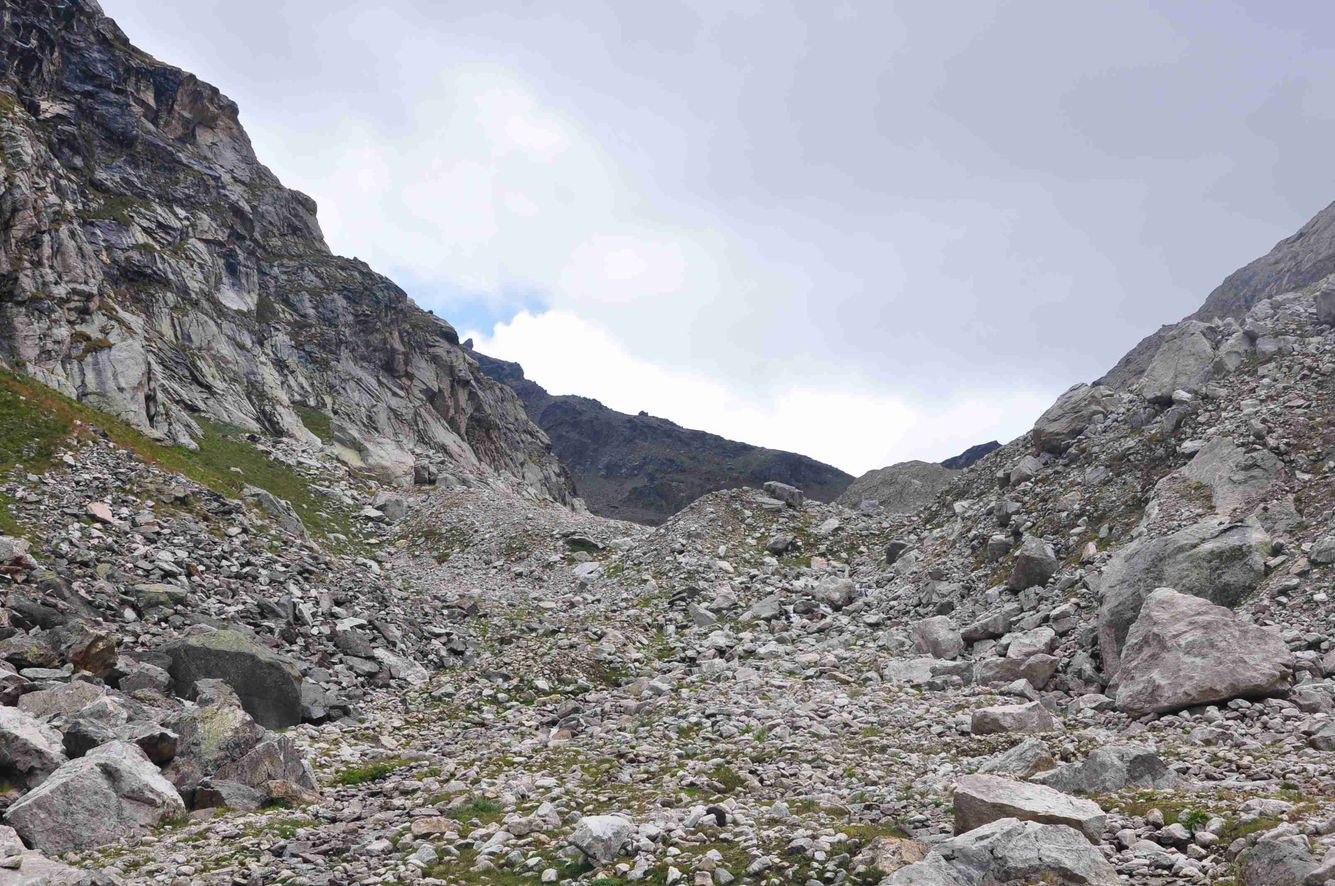
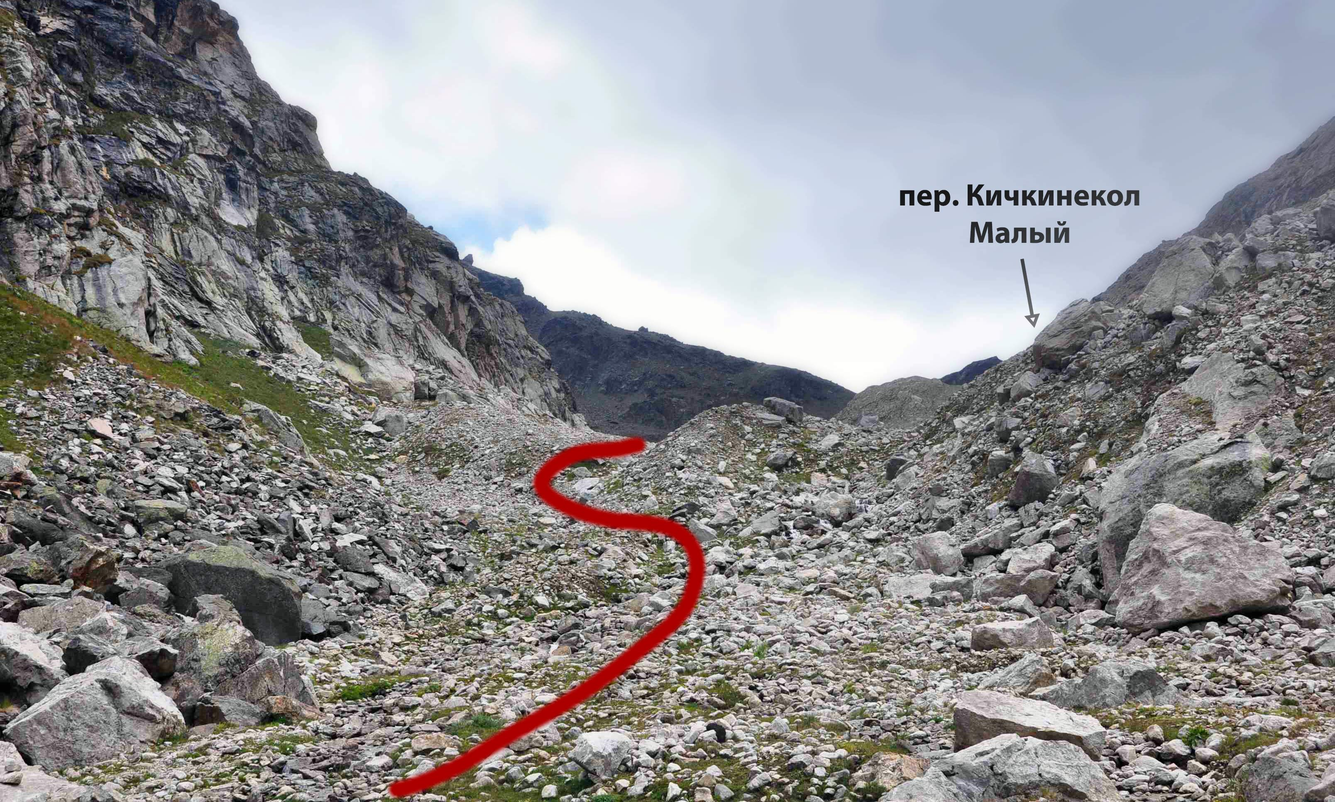
26 aug finish

diff --git a/latex-report/aug26.tex b/latex-report/aug26.tex
@@ -1,15 +1,24 @@
 \subsection{26 августа. Пер. Кичкинекол Малый (1А)}
 \textit{Метеоусловия: утром переменная облачность, днём, вечером сильный лождь, ветер.}
 
-
 \begin{figure}[h!]
 	\centering
 	\includegraphics[angle=0, width=0.7\linewidth]{../pics/mini_maps/26}
 	\label{fig:mini_26}
 \end{figure}
 
-Подъём в 08:00. Гроза закончилась, небо затянуто облаками, периодически выходит солнце. Выходим в 11:00, движемся по тропе, траверсирующей травянистый склон.
+Подъём в 08:00. Гроза закончилась, небо затянуто облаками, периодически выходит солнце. Выходим в 11:00, движемся по тропе, траверсирующей травянистый склон.  Тропа обходит водопад на западной оконечности поляны слева пхд. Встречаются туры, тропу видно хорошо. 
+Постепенно травянистый склон переходит в морену.
 
+\begin{figure}[h!]
+	\centering
+	\includegraphics[width=0.7\linewidth]{../pics/DSC_0221.JPG}
+	\caption{Путь подъёма на перевал}
+	\label{fig:DSC_0221}
+\end{figure}
+ 
+ За поворотом нам открывается вид на наш перевал и цирк соседнего перевала Обманный (рис.~\ref{fig:DSC_0226},\ref{fig:DSC_0227}).
+ 
 \begin{figure}[h!]
 	\centering
 	\includegraphics[width=0.7\linewidth]{../pics/DSC_0226}
@@ -17,14 +26,8 @@
 	\label{fig:DSC_0226}
 \end{figure}
 
- Тропа обходит водопад на западной оконечности поляны слева пхд. Встречаются туры, тропу видно хорошо. Постепенно травянистый склон переходит в морену, погода ухудшается, начинается небольшой дождь.
+Погода ухудшается, начинается небольшой дождь.
 
-\begin{figure}[h!]
-	\centering
-	\includegraphics[width=0.7\linewidth]{../pics/DSC_0221.JPG}
-	\caption{Путь подъема на перевал}
-	\label{fig:DSC_0221}
-\end{figure}
 
 \begin{figure}[h!]
 	\centering
@@ -33,22 +36,27 @@
 	\label{fig:DSC_0227}
 \end{figure}
 
-\begin{figure}[h!]
-	\centering
-	\includegraphics[width=0.7\linewidth]{../pics/DSC_0230.JPG}
-	\label{fig:DSC_0230}
-\end{figure}
+
+Подъём на перевал проходит по средней и мелкой осыпи, идём косыми траверсами с самостраховкой треккинговыми палками. Технической сложности не представляет.
+В 13:15 заходим на перевал Кичкинекол Малый (рис.~\ref{fig:DSC_0239}). Погода совсем испортилась, идёт ливень с градом. Снимаем перевальную записку т/к <<Крокус>> (г.~Краснодар) от 24.08.2024~г., пишем свою, укрывая писаря от непогоды пончо, едим перевальный шоколад и в 13:22 начинаем спуск.
+
 
 \begin{figure}[h!]
 	\centering
-	\includegraphics[angle=0, width=0.7\linewidth]{../pics/DSC_0239.JPG}
+	\begin{minipage}[h]{0.48\linewidth}
+		\includegraphics[width=0.99\linewidth]{../pics/DSC_0239.jpg}
+	\end{minipage}
+	\quad
+	\begin{minipage}[h]{0.48\linewidth}
+		\includegraphics[width=0.99\linewidth]{../pics/DSC_0242.jpg}
+	\end{minipage}
+	\caption{Группа на пер. Кичкинекол Малый. Слева: вид в д.р. Чунгур-Джар, справа: вид в д.р. Таллычат}
 	\label{fig:DSC_0239}
 \end{figure}
 
-\begin{figure}[h!]
-	\centering
-	\includegraphics[angle=0, width=0.7\linewidth]{../pics/DSC_0242.JPG}
-	\label{fig:DSC_0242}
-\end{figure}
+Спуск идёт также по хорошо набитой тропе травянисто-осыпного склона. Идём по тропе, периодически встречаются туры, справа от тропы живописный вид на ГКХ? ледник Чунгур-Джар. Ливень превращается в мелкий дождь. В 15:00 спускаемся на урочище Аэродром в д.р Чунгур-Джар, на левом берегу находим огороженные камнями места под палатки и разбиваем лагерь. Дождь не прекращается, сопровождается сильным ветром.
+
+Дежурные и руководитель готовят обед, остальные сушатся и греются в палатках. Координаты м.н. N43.248385\degree,~E42.236151\degree.
+
 
 \clearpage

diff --git a/latex-report/aug30.tex b/latex-report/aug30.tex
@@ -79,7 +79,7 @@
 	\label{fig:IMG_20240830_170232.jpg}
 \end{figure}
 
- Спустившись в поляну Азау, оплачиваем безбилетный проезд в закрытой , но приоткрывшейся специально для нас кассе. С нас взяли стоимость спуска с самой верхней станции канатки~--- 1200~\faRub с человека. Сообщаем в МКК, МЧС и координатору о завершении машрута. На этом горная часть нашего путешествия завершается.
+ Спустившись в поляну Азау, оплачиваем безбилетный проезд в закрытой , но приоткрывшейся специально для нас кассе. С нас взяли стоимость спуска с самой верхней станции канатки~--- 1200~\faRub~с человека. Сообщаем в МКК, МЧС и координатору о завершении машрута. На этом горная часть нашего путешествия завершается.
 
 \begin{figure}[h!]
 	\centering
@@ -89,6 +89,6 @@
 \end{figure}
 
 Остаток времени до прибытия трансфера проводим в одной из кафешек поляны Азау.
-В 20:00 нас встречает микроавтобус и везёт нас до железнодородного вокзала Минеральных Вод, где мы встречаемся с частью слившихся участников. Как только садимся в автобус, начинаются дождь с грозой и градом, которыми пугал наш координатор, сообщая прогноз погода. После полуночи загружаемся в поезд и катим домой!
+В 20:00 нас встречает микроавтобус и везёт нас до железнодородного вокзала Минеральных Вод, где мы встречаемся с участниками, покинувшими нас в Хурзуке. Как только садимся в автобус, начинаются дождь с грозой и градом, которыми пугал наш координатор, сообщая прогноз погоды. После полуночи загружаемся в поезд и катим домой!
 
 \clearpage

diff --git a/latex-report/aug29.tex b/latex-report/aug29.tex
@@ -12,14 +12,8 @@
 
 В 08:30 возвращаемся в лагерь, где оставшаяся часть группы кормит нас завтраком, и выходим вверх по д.р. Кубань в 10:00.
 
-\begin{figure}[h!]
-	\centering
-	\includegraphics[width=0.7\linewidth]{../pics/DSC_0462 2.JPG}
-	\caption{группа в д.р. Кубань}
-	\label{fig:DSC_0462 2.JPG}
-\end{figure}
 
-Идём по хорошей автомобильной грунтовой дороге практически без набора высоты. Дорога идёт по открытой местности, иногда сменяется лесом (рис.~\ref{fig:DSC_0462 2.JPG}). Жарко, у ручьёв делаем привалы и набираем воду. Слева пхд тянутся каменные руины, предположительно, древних городищ.
+Идём по хорошей автомобильной грунтовой дороге практически без набора высоты. Дорога идёт по открытой местности, иногда сменяется лесом. Жарко, у ручьёв делаем привалы и набираем воду. Слева пхд тянутся каменные руины, предположительно, древних городищ.
 
 
 В 12:50 доходим до Ворошиловских кошей, откуда сворачиваем направо пхд, к погранзаставе. Ждём пограничников 15 минут, но никто не откликается. Проходим немногим более 1~км вверх по течению р. Кубань и встаём на обед в 13:40 около небольшого ручья в тени деревьев, координаты места обеда N43.298154\degree,~E42.333682\degree. Во время нашего обеда к нам подходят два конных пограничника, интересуются нашим маршрутом, но документов не просят.
